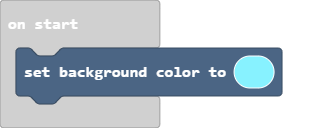
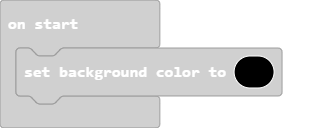
Update main.blocks, main.ts

Changed region(s): [[0.0299, 0.3438, 0.8683, 0.8438]]

diff --git a/main.ts b/main.ts
@@ -1,1 +1,1 @@
-scene.setBackgroundColor(9)
+scene.setBackgroundColor(15)
